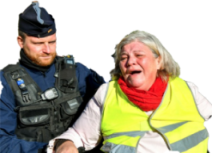
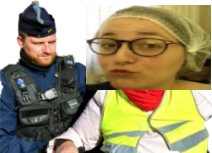
added custom tronches

diff --git a/src/game-engine/player.js b/src/game-engine/player.js
@@ -1,5 +1,7 @@
 import React, { Component } from "react";
+import AliceLarsen from './../aliceLarsen.jpg'
 const screenWidth = window.screen.width
+
 export default class Player extends Component {
   constructor(props) {
     super(props);
@@ -7,10 +9,11 @@ export default class Player extends Component {
     this.xPosition = this.props.xPosition;
     this.playerSize = this.props.playerSize
     this.hp = this.props.hp
+
     this.state = {};
   }
 
-
+  alice =  `url(${ AliceLarsen })`
   componentWillUpdate(nextProps, nextState) {
     if (nextProps.yPosition === this.props.yPosition) {
     } else {
@@ -32,6 +35,16 @@ export default class Player extends Component {
        backgroundPosition: 'center',
         position: "relative",
         bottom: this.props.yPosition
+      },
+      alice:{
+        position:'relative',
+        height:47,
+        width:47,
+        backgroundImage: `url(${ AliceLarsen })`,
+        backgroundRepeat  : 'no-repeat',
+        backgroundPosition: 'center',
+        backgroundSize:'contain',
+        MarginLeft:10,
       }
     };
     return (
@@ -40,7 +53,9 @@ export default class Player extends Component {
         ref={el => {
           this.player = el;
         }}
-      />
+      >
+        <div  style={styles.alice} ></div>
+      </div>
     );
   }
 }

diff --git a/src/game-engine/world.js b/src/game-engine/world.js
@@ -39,7 +39,7 @@ export default class World extends Component {
       isGameOver: false,
       openTuto:false,
       isIphone:false,
-      yPosition: 50,
+      yPosition: -150,
       worldHeight: initialWorldHeight,
       xPosition: 300,
       hp: initialHP,
